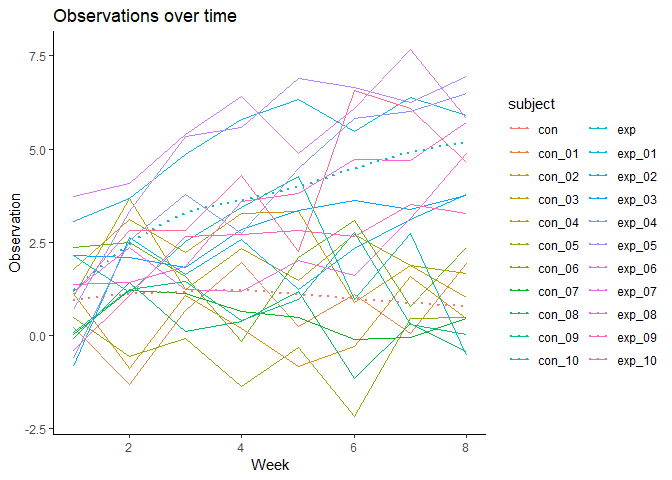
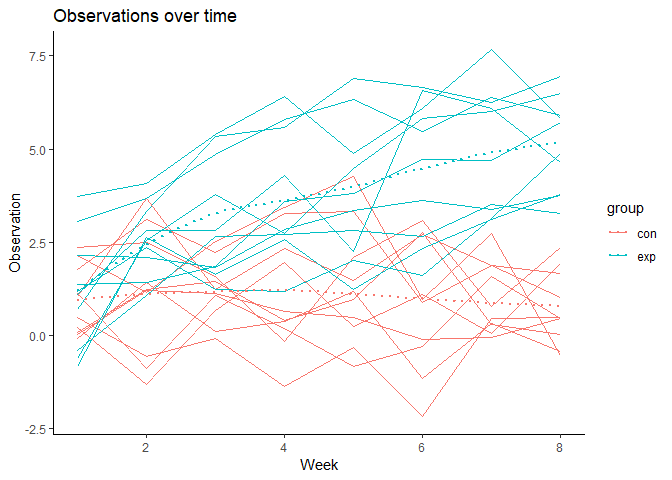
Better P1 plot

diff --git a/p8105_hw5_jy2947.md b/p8105_hw5_jy2947.md
@@ -42,7 +42,7 @@ longi_study %>%
   mutate(week = str_trunc(week, side = "left", 1, ellipsis = ""), 
          week = as.numeric(week)) %>% 
   ggplot(aes(x = week, y = value)) +
-  geom_line(aes(color = subject), linetype = 1) +
+  geom_line(aes(color = group, group = subject), linetype = 1) +
   geom_smooth(aes(color = group), linetype = 3, se = FALSE) +
   labs(title = "Observations over time", 
        x = "Week", 
@@ -54,7 +54,7 @@ longi_study %>%
 
 ![](p8105_hw5_jy2947_files/figure-markdown_github/plot-1.png)
 
-The plot shows that there are some variations within each arm. The overall trend is that the observations of the treatment arm increase over time while the observations of the control arm decrease or remain the same over time.
+The plot shows that there are some variations within each arm. The overall trend is that the observations of the treatment arm increase over time while the observations of the control arm decrease or remain the same over time. This corresponds to higher observation values among the experiment group later in the experiment.
 
 ### Problem 2
 
